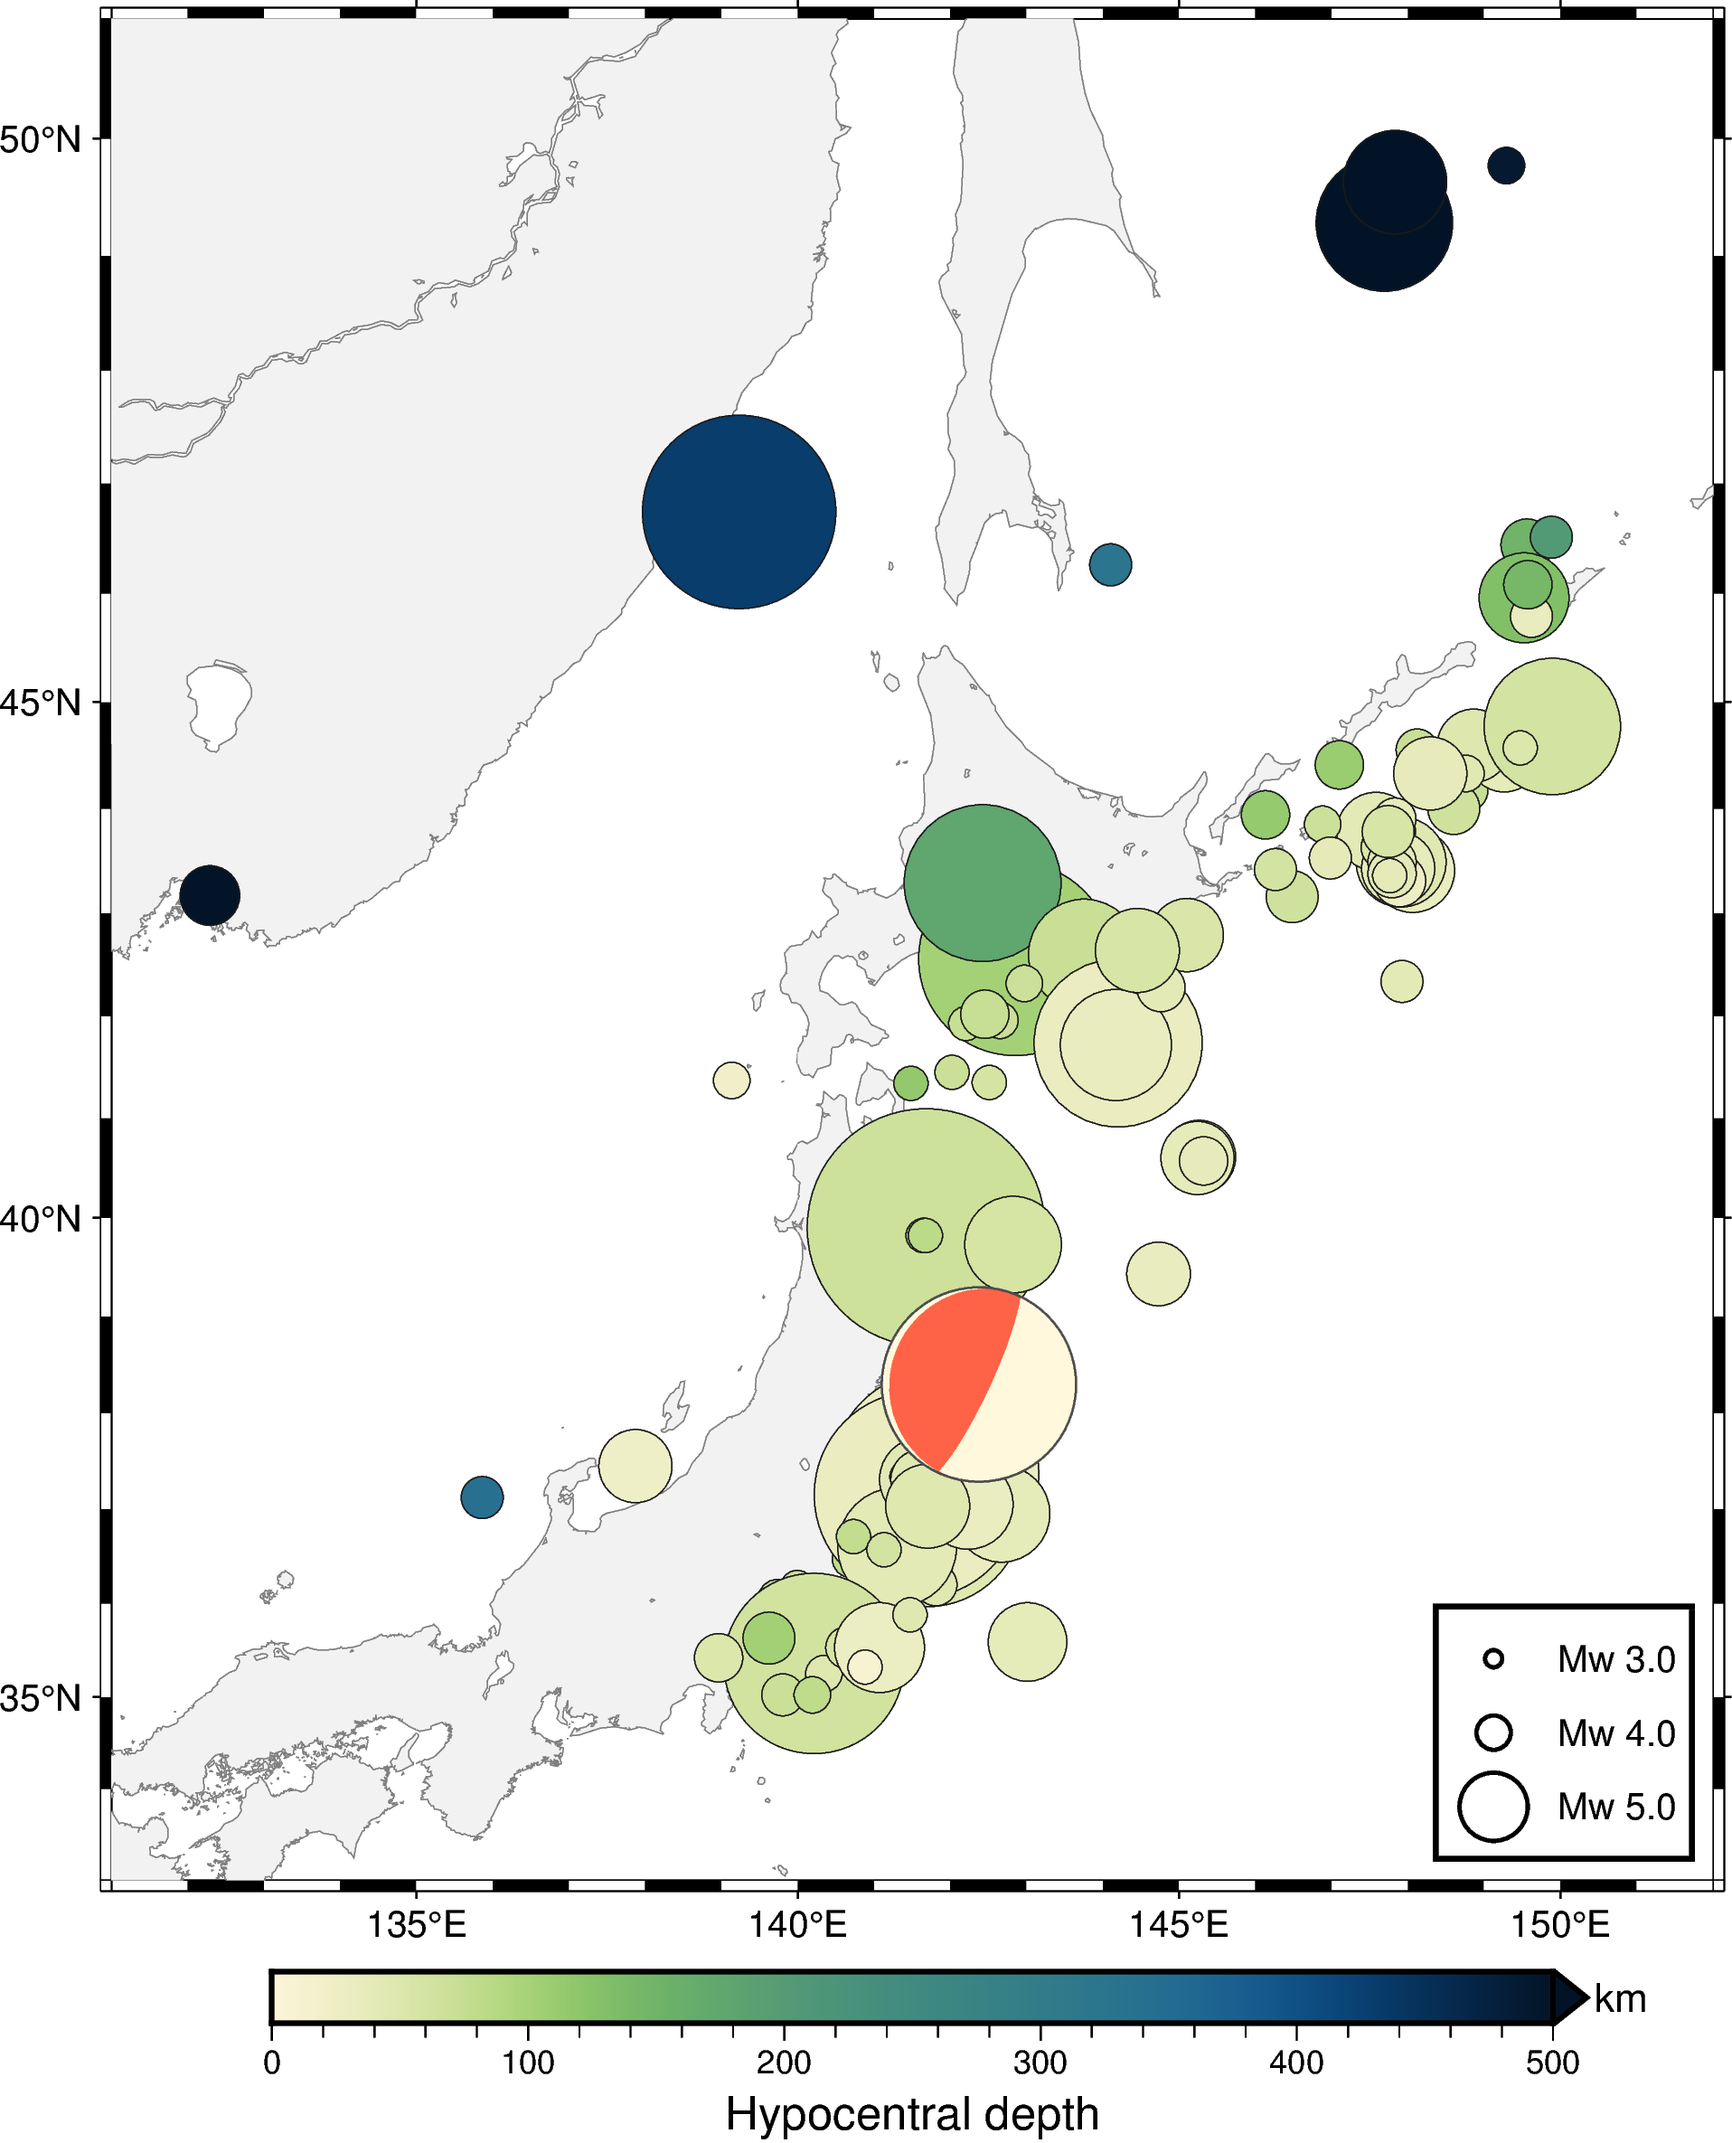
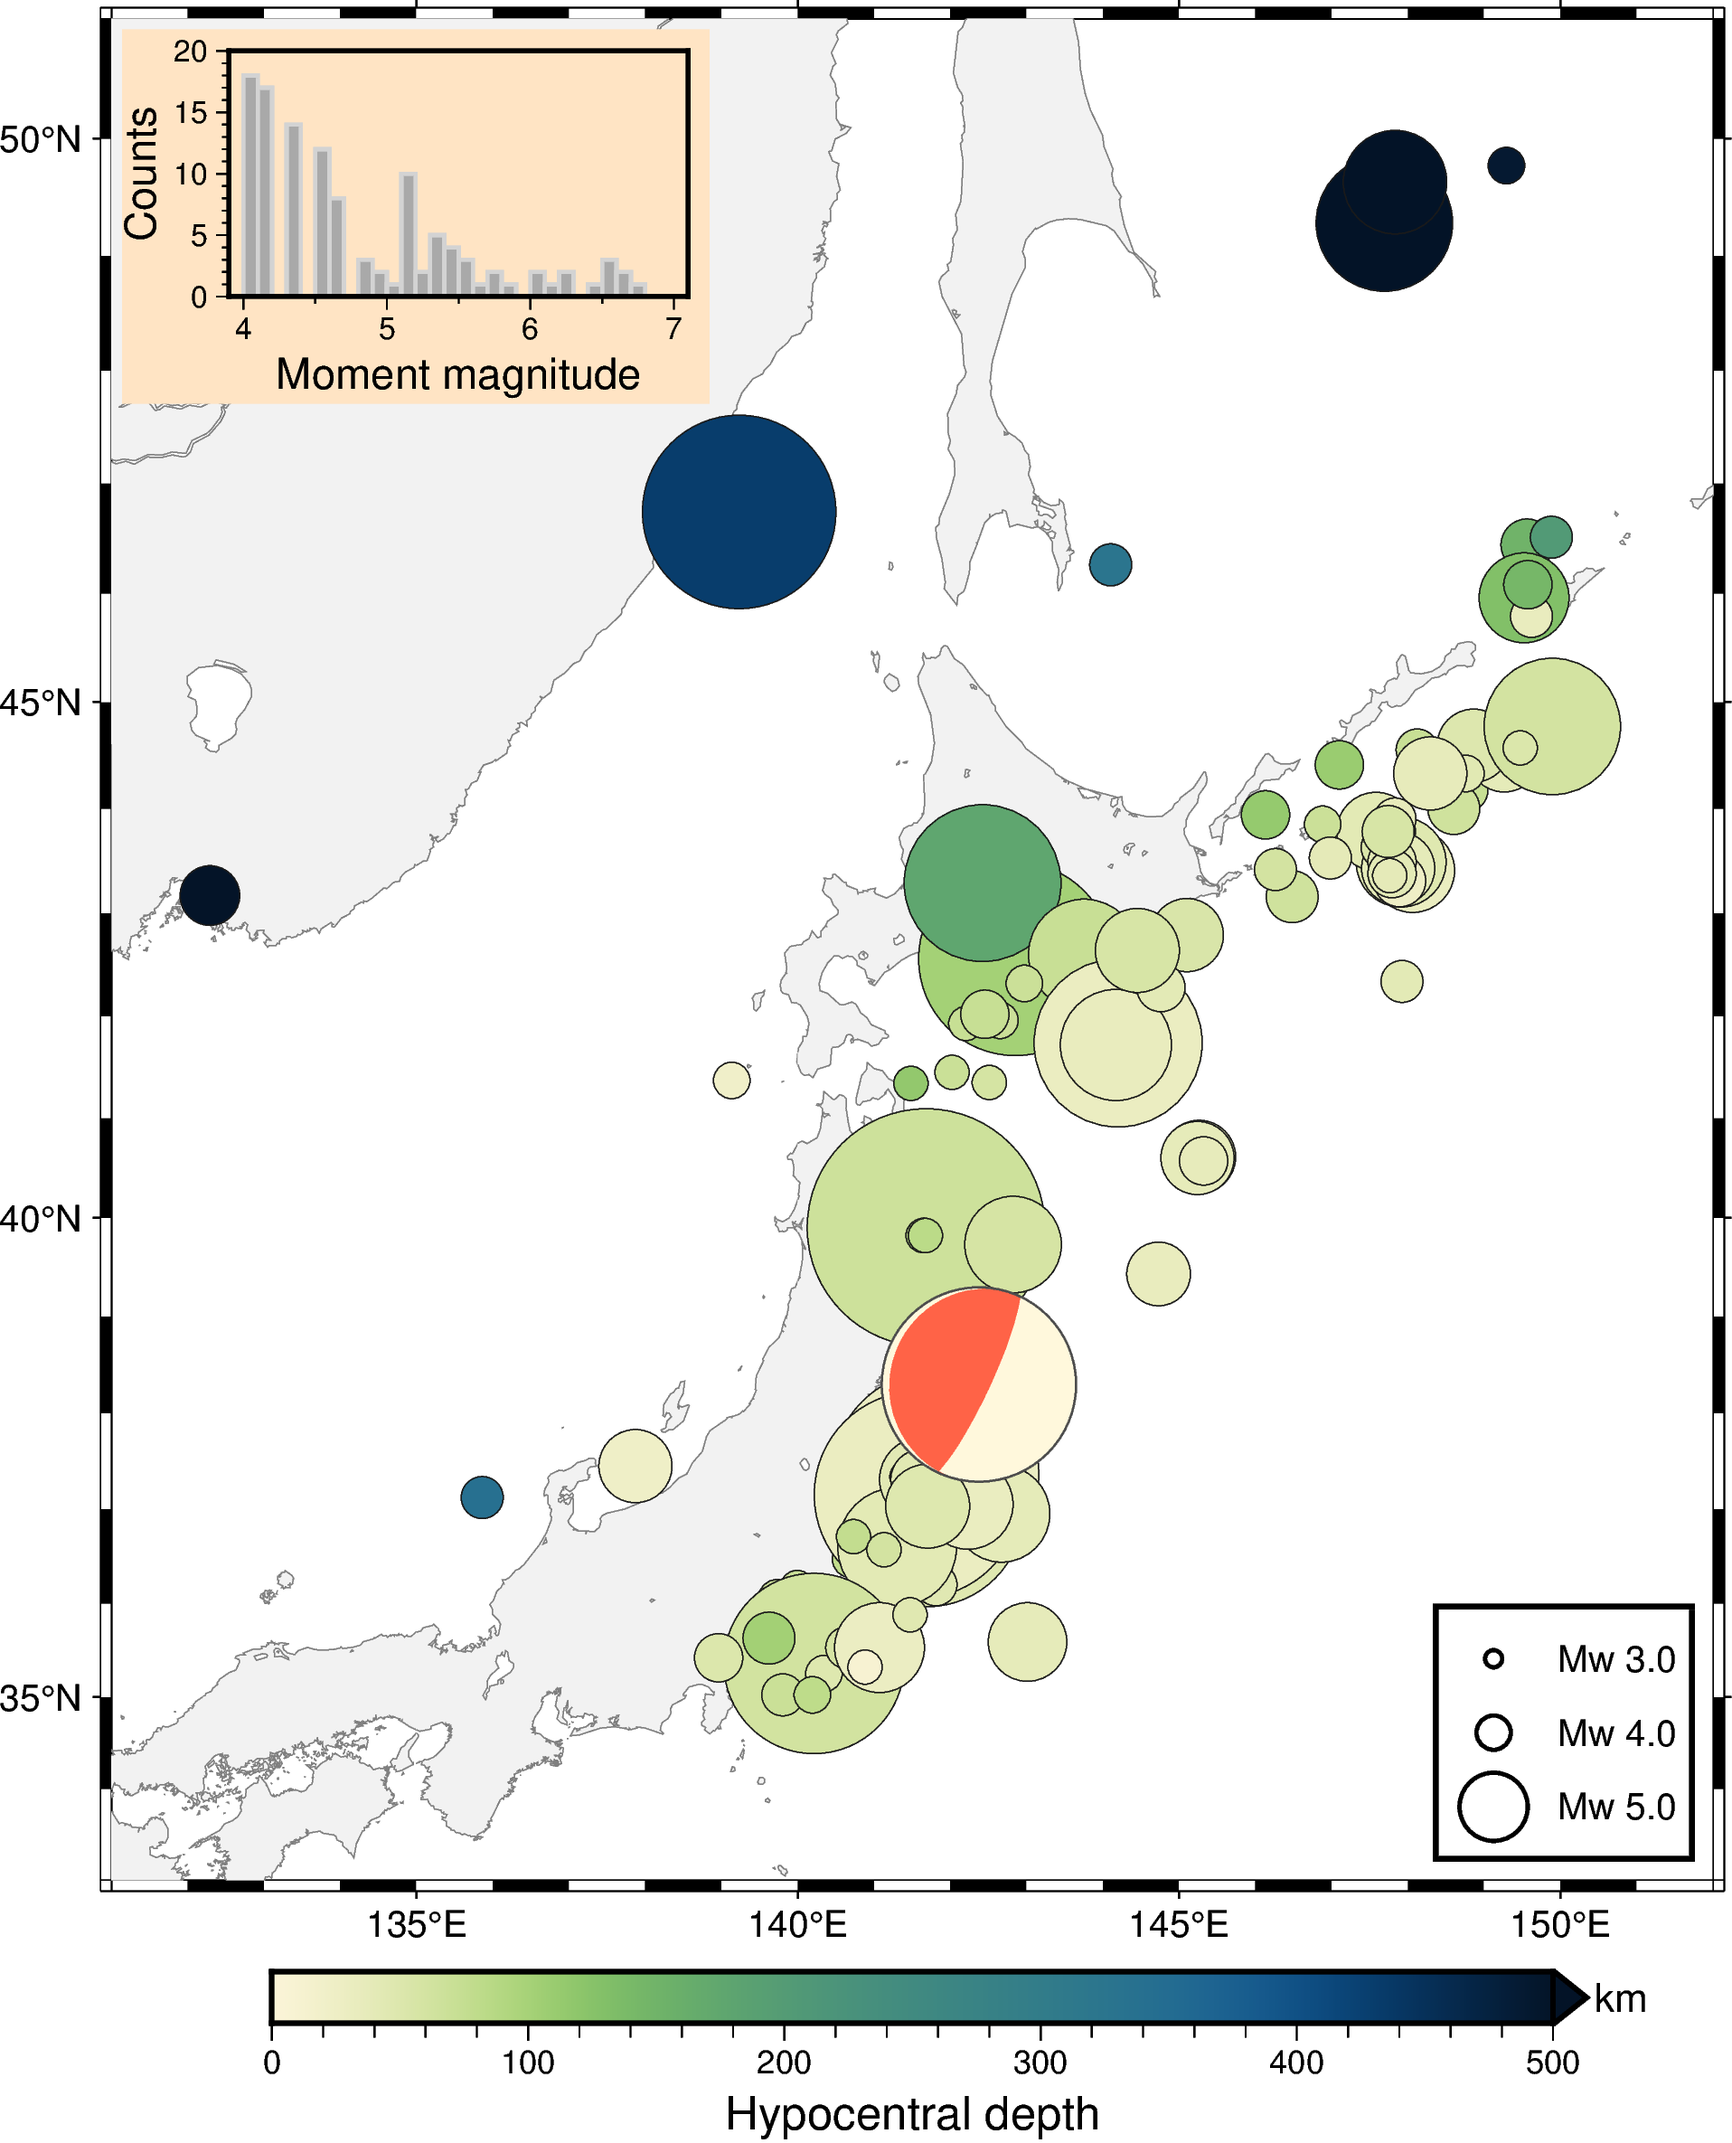
Add histogram for moment magnitude as inset

Changed region(s): [[0.0616, 0.0, 0.4311, 0.1873]]

diff --git a/Fig4_PyGMt_pandas.py b/Fig4_PyGMt_pandas.py
@@ -3,14 +3,12 @@ import pygmt
 import pandas as pd
 
 df_eqs = pygmt.datasets.load_sample_data(name="japan_quakes")
-projection_main = "M15c"
-region_main = "131/152/33/51"  # string needed for GMT
 
 # Create Figure
 fig = pygmt.Figure()
 
 # Main map
-fig.basemap(region=region_main, projection=projection_main, frame=True)
+fig.basemap(region=[131, 152, 33, 51], projection="M15c", frame=True)
 fig.coast(land="gray95", shorelines="gray50")
 
 # Plot epicenters with color (hypocentral depth) or size (moment magnitude)
@@ -27,9 +25,10 @@ fig.plot(
 )
 
 # Add legend for size-coding
-legend = io.StringIO("\n".join(f"S 0.4 c {0.02*2**m:.2f} - 1p 1.0 Mw {m}" for m in [3.0, 4.0, 5.0]))
+legend = io.StringIO(
+    "\n".join(f"S 0.4 c {0.02*2**m:.2f} - 1p 1.0 Mw {m}" for m in [3.0, 4.0, 5.0])
+)
 fig.legend(legend, position="jBR+o0.2c/0.2c+l2.0", box=True)
-
 
 # Add beachball for M 9.1 - 2011 Great Tohoku Earthquake, Japan
 # https://earthquake.usgs.gov/earthquakes/eventpage/official20110311054624120_30/moment-tensor
@@ -45,7 +44,21 @@ fig.meca(
     pen="0.5p,gray30,solid",  # TODO maybe add offset
 )
 
-
+with fig.inset(
+    position="jTL+w5.5/3.5c+o0.1c",
+    margin=(1.0, 0.2, 1.0, 0.2),
+    box=pygmt.params.Box(fill="bisque"),
+):
+    fig.histogram(
+        # region=[3.9, 7.1, 0, 0],
+        projection="X?c/?c",
+        frame=["WSrt", "xa1af0.5+lMoment magnitude", "yaf+lCounts"],
+        data=df_eqs.magnitude,
+        series=0.1,
+        fill="darkgray",
+        pen="1p,lightgray,solid",
+        histtype=0,
+    )
 
 fig.show()
 fig.savefig("Fig4_PyGMT_pandas.png")
